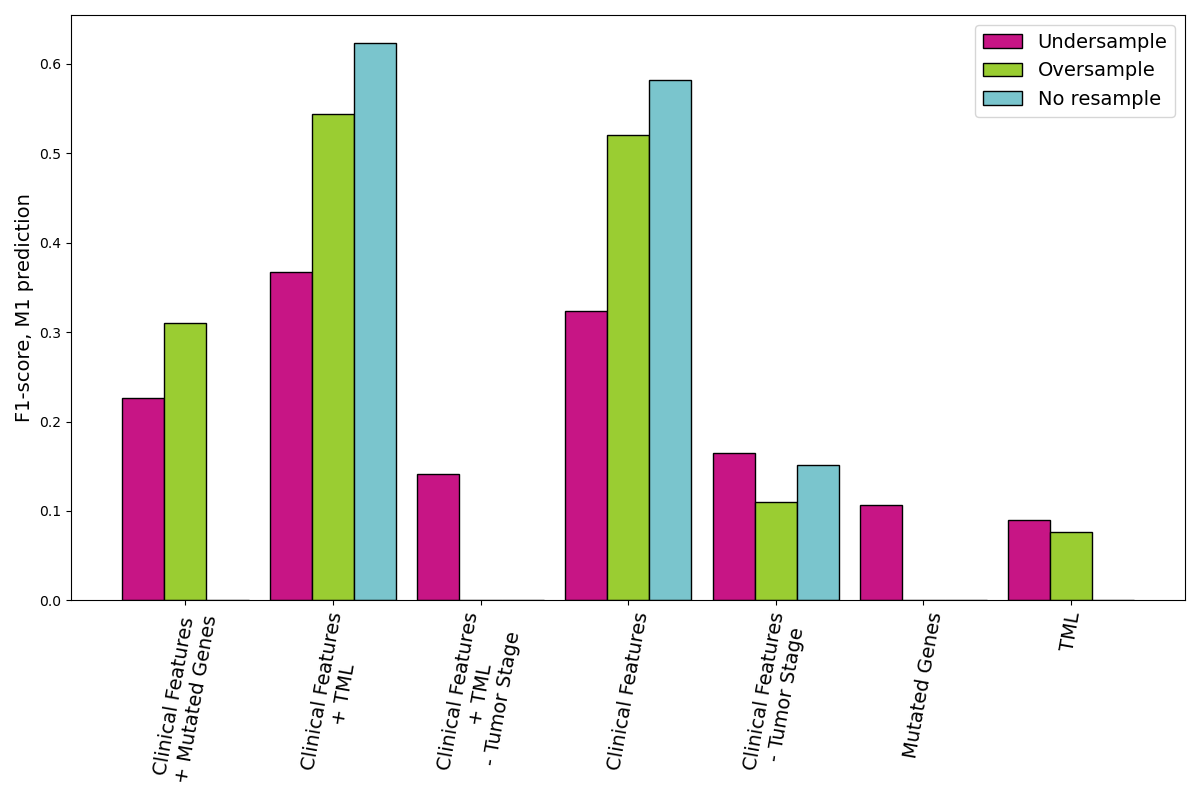
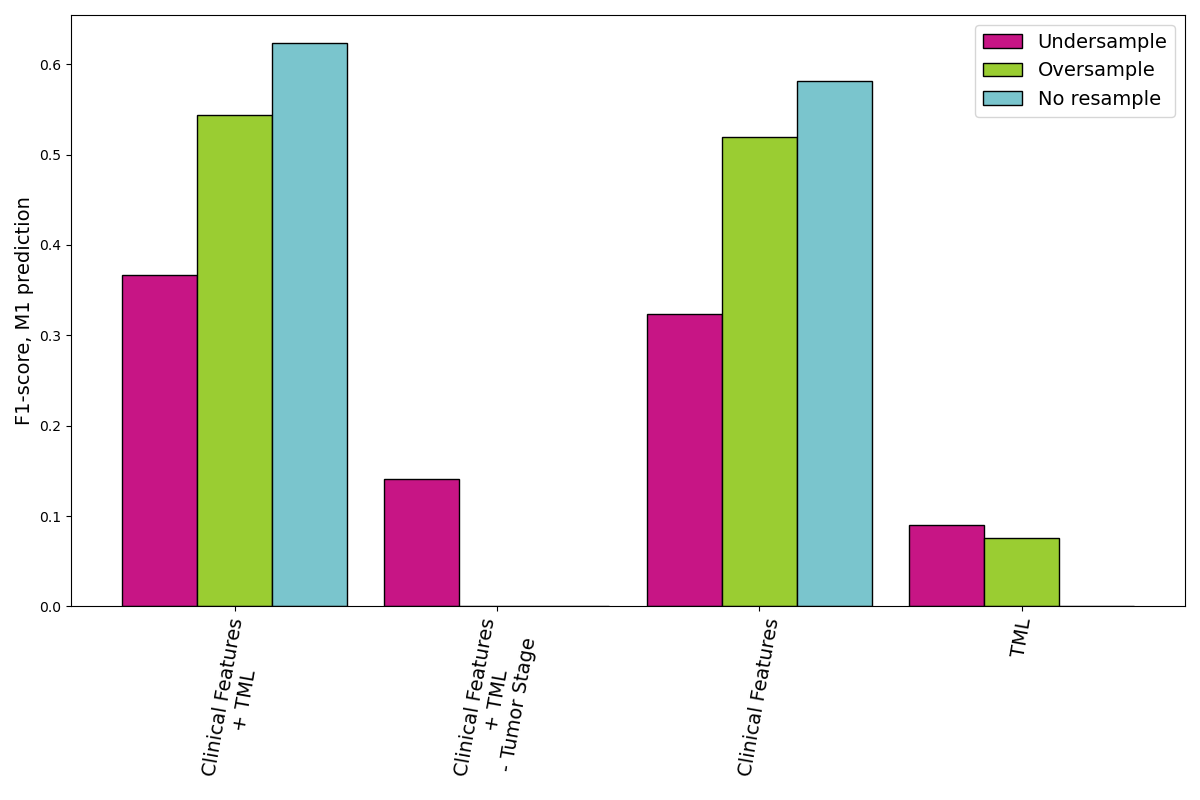
Reduce plot to 4 models

diff --git a/pipeline/03-Meta_Analysis/precision_recall.py b/pipeline/03-Meta_Analysis/precision_recall.py
@@ -14,7 +14,7 @@ MARKER_SIZE = 200
 PATH = os.path.dirname(os.path.abspath(__file__))
 META_DATA = os.path.join(PATH, os.pardir, os.pardir, "data", "meta_data")
 
-data = pd.read_csv(os.path.join(META_DATA, "metrics.tsv"), header=0, index_col=0, sep="\t")
+data = pd.read_csv(os.path.join(META_DATA, "selected_metrics.tsv"), header=0, index_col=0, sep="\t")
 data_cv = data[data["Validation Method"] == "5-Fold CrossValidation"]
 data = data[data["Validation Method"] == "Hold-out"]
 
@@ -32,15 +32,15 @@ def scatter_plot(axes: Axes, figure: Figure, df: pd.DataFrame) -> None:
     :return: None, alter axes
     """
     legend1 = None
-    markers = ["s", "^", "o", "P", "p", "X", "*"]
-    labels = sorted(pd.unique(df["Label"]))
+    markers = ["s", "o", "^", "*"]
+    labels = sorted(pd.unique(df.index))
     handles = list()
     for index, label in enumerate(labels):
         handles.append(mlines.Line2D([], [], color="#7AC5CD", marker=markers[index], linestyle="None",
                                      markersize=MARKER_SIZE // 10, label=label))
-        if len(handles) == 7:
-            legend1 = axes.legend(handles=handles, fontsize=FONTSIZE, loc='upper center', bbox_to_anchor=(0.27, -0.1),
-                                  ncol=3, fancybox=True, shadow=True)
+        if len(handles) == 4:
+            legend1 = axes.legend(handles=handles, fontsize=FONTSIZE, loc='upper left',
+                                  ncol=1, fancybox=True, shadow=True)
             handles = list()
         for resampling, color in [("Oversample", "#9ACD32"), ("Undersample", "#C71585"), ("None", "#7AC5CD")]:
             if index == len(labels) - 1:
@@ -50,6 +50,7 @@ def scatter_plot(axes: Axes, figure: Figure, df: pd.DataFrame) -> None:
                 if index == len(labels) - 1 and resampling == "None":
                     graphical_params = {
                         "color": "#7AC5CD", "marker": markers[0], "linestyle": "None",
+                        "markeredgecolor": "r", "markeredgewidth": 2.0,
                         "markersize": MARKER_SIZE // 10, "label": "No PCA"
                     }
                     if pca:
@@ -61,7 +62,7 @@ def scatter_plot(axes: Axes, figure: Figure, df: pd.DataFrame) -> None:
                     datum = df[
                         (df["PCA"] == pca) &
                         (df["Resampling"] == resampling) &
-                        (df["Label"] == label)
+                        (df.index == label)
                     ].iloc[0]
                     graphical_params = {
                         "facecolor": color,
@@ -72,7 +73,7 @@ def scatter_plot(axes: Axes, figure: Figure, df: pd.DataFrame) -> None:
                         graphical_params["edgecolor"] = "k"
                         graphical_params["linewidth"] = 2.0
                     else:
-                        graphical_params["edgecolor"] = "gray"
+                        graphical_params["edgecolor"] = "r"
                         graphical_params["linewidth"] = 2.0
                     axes.scatter(datum["M1: Recall"],
                                  datum["M1: Precision"],
@@ -81,7 +82,7 @@ def scatter_plot(axes: Axes, figure: Figure, df: pd.DataFrame) -> None:
                     pass
     axes.set_xlabel("Recall", fontsize=FONTSIZE)
     axes.set_ylabel("Precision", fontsize=FONTSIZE)
-    axes.legend(handles=handles, fontsize=FONTSIZE, loc='upper center', bbox_to_anchor=(0.75, -0.1),
+    axes.legend(handles=handles, fontsize=FONTSIZE, loc='upper center', bbox_to_anchor=(0.5, -0.1),
                 ncol=2, fancybox=True, shadow=True)
     figure.add_artist(legend1)
     return

diff --git a/pipeline/04-Feature-Importance/plot_feature_importance.py b/pipeline/04-Feature-Importance/plot_feature_importance.py
@@ -18,6 +18,11 @@ cf_tml = pd.read_csv(os.path.join(META_DATA, "feature_importance_decoded_CF + TM
                      index_col=0)
 cf = pd.read_csv(os.path.join(META_DATA, "feature_importance_decoded_CF.tsv"), sep="\t",
                  index_col=0)
+cf_tml_un = pd.read_csv(os.path.join(META_DATA, "feature_importance_CF + TML.tsv"), sep="\t",
+                                index_col=0).iloc[0:5].iloc[::-1]
+cf_un = pd.read_csv(os.path.join(META_DATA, "feature_importance_CF.tsv"), sep="\t",
+                            index_col=0).iloc[0:5].iloc[::-1]
+
 
 
 def plot_no_resample(axes: Axes, data: pd.DataFrame) -> None:
@@ -76,6 +81,13 @@ if __name__ == "__main__":
     fig_re.tight_layout()
     fig_re.savefig(os.path.join(META_DATA, "feature_importance_CF_resample.png"))
 
+    # Un-decoded
+    fig_un, ax_un = plt.subplots(figsize=FIGSIZE)
+    plot_no_resample(ax_un, cf_un)
+    fig_un.tight_layout()
+    fig_un.savefig(os.path.join(META_DATA, "feature_importance_CF_undecoded.png"))
+
+
     # Clinical Feature + TML
     # No resample
     fig_tml, ax_tml = plt.subplots(figsize=FIGSIZE)
@@ -88,3 +100,9 @@ if __name__ == "__main__":
     plot_resample(ax_tml_re, cf)
     fig_tml_re.tight_layout()
     fig_tml_re.savefig(os.path.join(META_DATA, "feature_importance_CF+TML_resample.png"))
+
+    # Un-decoded
+    fig_tml_un, ax_tml_un = plt.subplots(figsize=FIGSIZE)
+    plot_no_resample(ax_tml_un, cf_tml_un)
+    fig_tml_un.tight_layout()
+    fig_tml_un.savefig(os.path.join(META_DATA, "feature_importance_CF+TML_undecoded.png"))

diff --git a/pipeline/03-Meta_Analysis/process_results.py b/pipeline/03-Meta_Analysis/process_results.py
@@ -9,6 +9,10 @@ DATA = os.path.join(PATH, os.pardir, os.pardir, "data")
 RESULTS = os.path.join(DATA, "metrics")
 META_DATA = os.path.join(DATA, "meta_data")
 
+SELECTED = [
+    "CF", "CF + TML", "TML", "CF + TML - TS"
+]
+
 os.makedirs(META_DATA, exist_ok=True)
 
 data = pd.DataFrame({}, columns=["Clinical Data", "Mutated Genes",  # Data used to train
@@ -75,3 +79,8 @@ if __name__ == "__main__":
     for folder in os.listdir(RESULTS):
         data = add_results(folder, data)
     data.to_csv(os.path.join(META_DATA, "metrics.tsv"), sep="\t")
+
+    # Selected model to show
+    (data.loc[data["Label"].isin(SELECTED)]).to_csv(
+        os.path.join(META_DATA, "selected_metrics.tsv"), sep="\t"
+    )

diff --git a/pipeline/03-Meta_Analysis/f1_score_plot.py b/pipeline/03-Meta_Analysis/f1_score_plot.py
@@ -13,7 +13,7 @@ DEGREES = 80
 PATH = os.path.dirname(os.path.abspath(__file__))
 META_DATA = os.path.join(PATH, os.pardir, os.pardir, "data", "meta_data")
 
-data = pd.read_csv(os.path.join(META_DATA, "metrics.tsv"), header=0, index_col=0, sep="\t")
+data = pd.read_csv(os.path.join(META_DATA, "selected_metrics.tsv"), header=0, index_col=0, sep="\t")
 data_pca = data[data["PCA"]]
 data = data[~ data["PCA"]]
 to_plot = {
